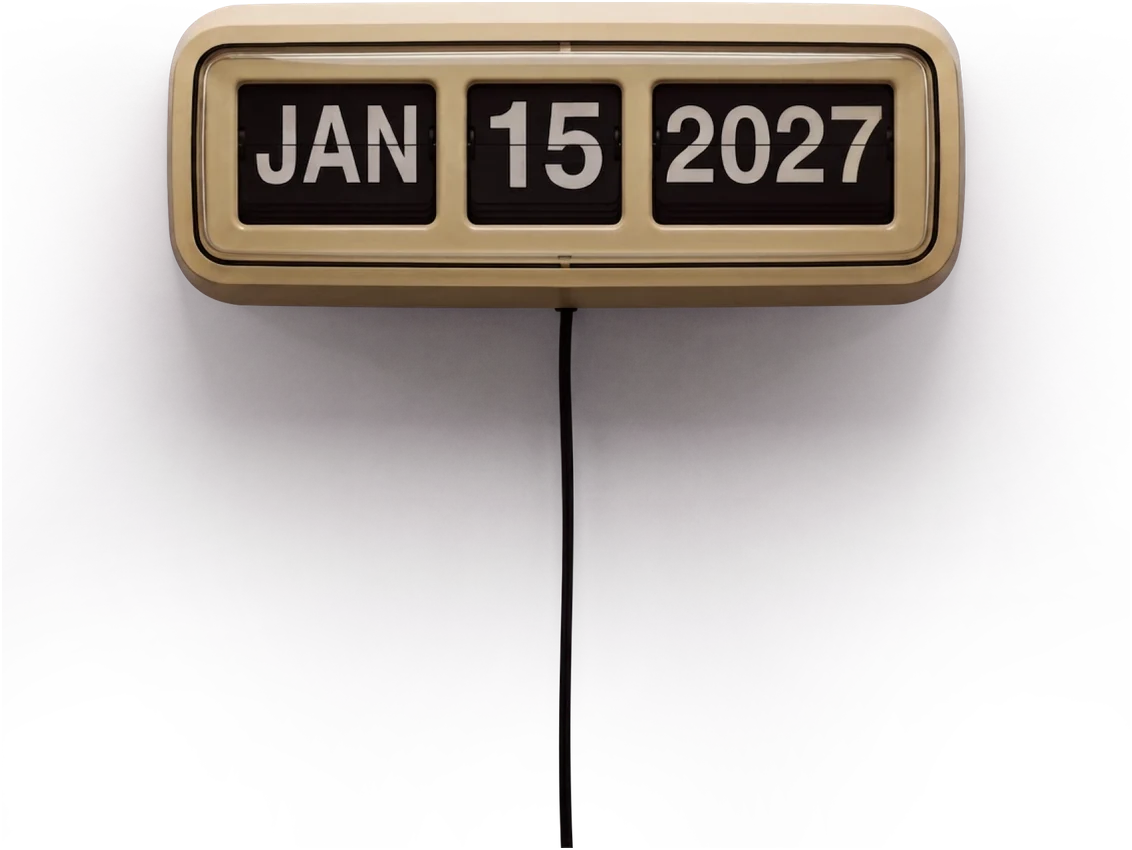
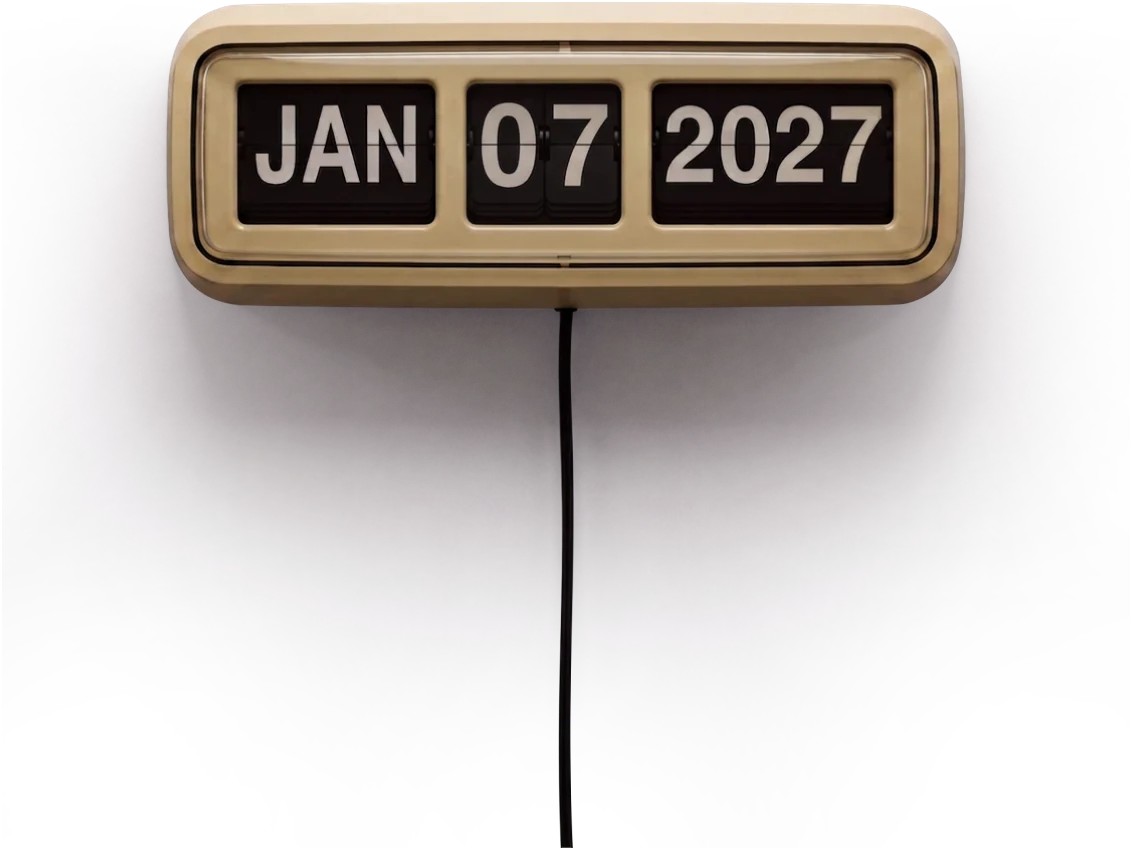
Update the clock to JAN 07 2027 and tear the wall card open and shut
The Figma clock now reads JAN 07 2027: new clock sprite, launch date,
copy and share image follow it. The "Be Part of" card no longer fades
behind the news form; it uses the Replica's crumpled-edge reveal as a
clip-path, opening after load and closing with the scroll.

Claude-Session: https://claude.ai/code/session_01NcG1xNn6z1Y4vGfPNeuqxL

diff --git a/src/main.js b/src/main.js
@@ -1,5 +1,6 @@
 // Metro Rewind teaser — Three.js scene: wall → desk cube-pitch transition, relit image layers, typing sheet.
 import * as THREE from 'three';
+import { crumpleReveal } from './reveal.js';
 
 const FRAME_W = 1728, FRAME_H = 1038, DESK_Y = 1038;       // design px; desk frame sits under the wall frame
 const reduce = matchMedia('(prefers-reduced-motion: reduce)').matches;
@@ -252,13 +253,13 @@ class Flip {
 const MONTHS = ['JAN','FEB','MAR','APR','MAY','JUN','JUL','AUG','SEP','OCT','NOV','DEC'];
 const units = [
   new Flip(966.3, 99, CARD_H, 'JAN'),
-  new Flip(1070.1, 76.7, CARD_H, '15'),
+  new Flip(1070.1, 76.7, CARD_H, '07'),
   new Flip(1184.8, 120.7, CARD_H, '2027'),
 ];
 { const n = new Date(); units[0].show(MONTHS[n.getMonth()]); units[1].show(String(n.getDate()).padStart(2, '0')); units[2].show(String(n.getFullYear())); }   // today, until the flip starts
-// on load the clock shows the visitor's today and flips to launch day, JAN 15 2027.
+// on load the clock shows the visitor's today and flips to launch day, JAN 07 2027 (per the comp).
 // Long gaps are sampled so each card turns at most a handful of times (~2s total, whatever the date).
-const LAUNCH = new Date(2027, 0, 15);
+const LAUNCH = new Date(2027, 0, 7);
 function hops(from, to, max) {                         // evenly spaced values from→to (excluding from, ending on to)
   const n = Math.abs(to - from); if (!n) return [];
   const k = Math.min(n, max), out = [];
@@ -275,7 +276,7 @@ function spin() {
   while (mi !== 0 || (dir < 0 && months.length === 0 && m0 !== 0)) { mi = (mi + dir + 12) % 12; months.push(mi); if (months.length > 12) break; }
   const ms = months.length > 7 ? hops(0, months.length - 1, 7).map(i => months[i]) : months;
   units[2].push(hops(y0, 2027, 5).map(String), 0);
-  units[1].push(hops(d0, 15, 8).map(v => String(v).padStart(2, '0')), .25);
+  units[1].push(hops(d0, LAUNCH.getDate(), 8).map(v => String(v).padStart(2, '0')), .25);
   units[0].push(ms.map(i => MONTHS[i]), .12);
 }
 function wallCopy() {}                                                     // the comp's own subheader is a wall sprite now
@@ -614,6 +615,10 @@ addEventListener('keydown', ev => { if (modalOpen || ev.target.closest?.('input,
 const tog = (id, k) => { const b = document.getElementById(id); b.addEventListener('click', () => { S[k] = S[k] ? 0 : 1; b.setAttribute('aria-pressed', !!S[k]); }); };
 
 const back = document.getElementById('back'), wallcard = document.getElementById('wallcard');
+// "Be Part of" card: tears open from its corner once the scene has loaded, and tears shut again (scrubbing
+// with the scroll) before the tilt starts, instead of fading while the news form shows through it.
+const paintCard = crumpleReveal(wallcard, { origin: 'bottom-right' });
+let cardIn = 0; paintCard(0);
 document.getElementById('scrollDown').addEventListener('click', () => goTo(1));
 back.addEventListener('click', () => goTo(0));
 const lampBtn = document.getElementById('lampBtn');           // keyboard stand-in for clicking the lamp shade
@@ -717,7 +722,8 @@ function frame() {
   const onDesk = viewT > .95; if (lampBtn.hidden === onDesk) lampBtn.hidden = !onDesk;
   const pressed = String(lampOn); if (lampBtn.getAttribute('aria-pressed') !== pressed) lampBtn.setAttribute('aria-pressed', pressed);
   for (const m of steam) { m.material.uniforms.uOn.value = THREE.MathUtils.smoothstep(viewT, .6, 1); m.position.z = m.userData.z * THREE.MathUtils.smoothstep(viewT, .35, .95); }
-  wallcard.classList.toggle('gone', viewT > .06);
+  if (started) cardIn = reduce ? 1 : Math.min(1, cardIn + dt / .8);                   // on-load open, once
+  paintCard(Math.min(cardIn, 1 - THREE.MathUtils.clamp((sm - .03) / (.11 - .03), 0, 1)));
   renderer.setRenderTarget(rt); renderer.render(scene, camera);
   renderer.setRenderTarget(null); renderer.render(postScene, postCam);
   requestAnimationFrame(frame);

diff --git a/index.html b/index.html
@@ -6,18 +6,18 @@
 <!-- Test deploy: remove this and the X-Robots-Tag header in vercel.json at launch. -->
 <meta name="robots" content="noindex, nofollow">
 <title>Metro Rewind 2026: Coming Soon</title>
-<meta name="description" content="Your personalized Metro year in review is back. Tap in your SmarTrip to see your 2026 trips, top stations and streaks. Coming January 15, 2027.">
+<meta name="description" content="Your personalized Metro year in review is back. Tap in your SmarTrip to see your 2026 trips, top stations and streaks. Coming January 7, 2027.">
 <meta name="theme-color" content="#2a1f18">
 <link rel="canonical" href="%SITE_URL%/">
 <meta property="og:type" content="website">
 <meta property="og:site_name" content="Metro">
 <meta property="og:title" content="Metro Rewind 2026: Coming Soon">
-<meta property="og:description" content="Your personalized Metro year in review is back. Tap in your SmarTrip to see your 2026 trips, top stations and streaks. Coming January 15, 2027.">
+<meta property="og:description" content="Your personalized Metro year in review is back. Tap in your SmarTrip to see your 2026 trips, top stations and streaks. Coming January 7, 2027.">
 <meta property="og:url" content="%SITE_URL%/">
 <meta property="og:image" content="%SITE_URL%/og.jpg">
 <meta property="og:image:width" content="1200">
 <meta property="og:image:height" content="630">
-<meta property="og:image:alt" content="The Metro Rewind lettered on a sunlit wall above a flip clock reading JAN 15 2027">
+<meta property="og:image:alt" content="The Metro Rewind lettered on a sunlit wall above a flip clock reading JAN 07 2027">
 <meta name="twitter:card" content="summary_large_image">
 <link rel="icon" href="/assets/ui_logo.webp" type="image/webp">
 <link rel="apple-touch-icon" href="/apple-touch-icon.png">
@@ -34,11 +34,11 @@
 <div id="scroller"></div>
 <div id="about" class="vh">
   <h1>The Metro Rewind</h1>
-  <p>Tap in your SmarTrip and watch your year unfold. Coming soon: January 15, 2027.</p>
+  <p>Tap in your SmarTrip and watch your year unfold. Coming soon: January 7, 2027.</p>
   <p>Scroll down from the wall to a lamp-lit desk, where a typewriter asks you to be part of Metro Rewind.</p>
   <noscript><p>This experience needs JavaScript and WebGL.</p></noscript>
 </div>
-<p id="nogl" hidden>Your browser couldn't start the 3D scene. The Metro Rewind is coming January 15, 2027. You can still sign up for news and share your story.</p>
+<p id="nogl" hidden>Your browser couldn't start the 3D scene. The Metro Rewind is coming January 7, 2027. You can still sign up for news and share your story.</p>
 <div id="deskKeys">
   <button class="skip" type="button" id="storyBtn">Share your Metro story</button>
   <button class="skip" type="button" id="lampBtn" aria-pressed="true" hidden>Desk lamp</button>

diff --git a/src/reveal.js b/src/reveal.js
@@ -1,0 +1,50 @@
+// Crumpled-edge reveal for DOM panels: a clip-path polygon that grows from one corner with an
+// irregular, torn-looking edge. Ported from MTRO-18796-Replica/src/lib/reveal.js (the "...You!" box),
+// which in turn ports the w64 theme's createSpikeAnimation. Same seeded spokes and defaults, so the
+// edge is identical on every play and on scrub-back; here it drives clip-path instead of a mask.
+
+/** Seeded xorshift32 in [0, 1). */
+function xorshift(seed) {
+  let s = (seed >>> 0) || 1;
+  return () => { s ^= s << 13; s ^= s >>> 17; s ^= s << 5; return (s >>> 0) / 4294967296; };
+}
+
+/** Per-spoke radius multipliers: most spokes just inside 1, about a third poking past it. */
+function spikeSpokes(nPts, seed, spread) {
+  const rnd = xorshift(seed);
+  return Array.from({ length: nPts }, () => {
+    const v = rnd();
+    return v > 0.65 ? 1 + spread * 0.1 + ((v - 0.65) / 0.35) * spread * 0.9 : 1 - spread + (v / 0.65) * spread * 0.9;
+  });
+}
+
+const ORIGINS = { 'top-left': [0, 0], 'top-right': [1, 0], 'bottom-left': [0, 1], 'bottom-right': [1, 1], centre: [.5, .5] };
+
+/** power2.inOut, the theme's panelGrow ease. */
+export const easeInOut2 = t => { const x = Math.min(Math.max(t, 0), 1); return x < .5 ? 2 * x * x : 1 - Math.pow(-2 * x + 2, 2) / 2; };
+
+/**
+ * Returns paint(t): t = 0 hides the element, 1 shows it whole (no clip-path at all), anything
+ * between clips it to the torn polygon at that eased fraction. Only repaints when t changes.
+ */
+export function crumpleReveal(el, spec = {}) {
+  const d = { origin: 'bottom-right', seed: 1337, nPts: 72, spread: .12, waveAmp: .05, waveCount: 2, overshoot: 1.25, ...spec };
+  const spokes = spikeSpokes(d.nPts, d.seed, d.spread);
+  let last = -1;
+  return function paint(t) {
+    t = Math.min(Math.max(t, 0), 1);
+    if (Math.abs(t - last) < 1e-4) return;
+    last = t;
+    el.classList.toggle('anim', t > 0 && t < 1);
+    if (t <= 0) { el.style.visibility = 'hidden'; el.style.clipPath = ''; return; }
+    el.style.visibility = '';
+    if (t >= 1) { el.style.clipPath = ''; return; }
+    const W = el.offsetWidth, H = el.offsetHeight, [ox, oy] = ORIGINS[d.origin] ?? ORIGINS['bottom-right'];
+    const r = easeInOut2(t) * Math.hypot(W, H) * d.overshoot;
+    const pts = spokes.map((m, i) => {
+      const a = i / spokes.length * 2 * Math.PI, rad = r * m * (1 + d.waveAmp * Math.sin(d.waveCount * a));
+      return `${(ox * W + rad * Math.cos(a)).toFixed(1)}px ${(oy * H + rad * Math.sin(a)).toFixed(1)}px`;
+    });
+    el.style.clipPath = `polygon(${pts.join(',')})`;
+  };
+}

diff --git a/src/style.css b/src/style.css
@@ -43,9 +43,8 @@
   #cta .msg{position:absolute;left:40px;top:166px;width:188px;margin:0;font:600 10.5px/1.25 Archivo,"Helvetica Neue",Arial,sans-serif;color:var(--err)}
   #wallcard{position:fixed;right:0;bottom:calc(env(safe-area-inset-bottom,0px) + 25px*var(--s));width:152px;height:200px;z-index:4;box-sizing:border-box;padding:20px;
     display:flex;flex-direction:column;justify-content:space-between;background:url(/assets/ui_paper.webp) center/cover;box-shadow:-6px 6px 18px rgba(40,24,14,.28);
-    transition:opacity .4s,visibility .4s}
-  #cta:hover ~ #wallcard, #cta:focus-within ~ #wallcard{z-index:2}
-  #wallcard.gone{opacity:0;visibility:hidden}
+}
+  #cta:hover ~ #wallcard:not(.anim), #cta:focus-within ~ #wallcard:not(.anim){z-index:2}
   #wallcard .t{display:block;width:112px;height:auto}
   .btn{font:800 12px/15px Archivo,"Helvetica Neue",Arial,sans-serif;color:var(--bronze);background:transparent;border:2px solid var(--bronze);border-radius:4px;
     height:28px;padding:0 10px;display:inline-flex;align-items:center;justify-content:center;gap:4px;cursor:pointer;white-space:nowrap}

diff --git a/tools/process.py b/tools/process.py
@@ -140,8 +140,8 @@ e=build('wall_bg',wb,1.0,-66,0,1859,1038,0,1,0,1.2,.05,10,0,1,maxside=4000,bake_
 ws=np.array(Image.open(R+'/wall_sign.png').convert('RGBA'))
 ws=ws[380:720, 90:1995]  # crop to letters+shadow (1x export)
 man['wall'].append(build('wall_sign',ws,1.0,-189+90,-54+380,1905,340,30,3,2.5,1.4,.35,35,.55,.3,maxside=4000))
-# wall copy + clock straight from the comp (3x exports → 2x textures), printed flat on the wall
-for nm,src,x,y,w,h in [('wall_copy','wall_subheader.png',447,615,381,153),('wall_clock','wall_clock3x.png',799.1,615,564,423)]:
+# wall copy + clock straight from the comp (resized to 2x textures), printed flat on the wall
+for nm,src,x,y,w,h in [('wall_copy','wall_subheader.png',447,615,381,153),('wall_clock','clock_v2.png',799.1,615,564,423)]:
     im=Image.open(R+'/parts/'+src).convert('RGBA'); im=im.resize((round(w*2),round(h*2)),Image.LANCZOS)
     man['wall'].append(build(nm,np.array(im),2.0,x,y,w,h,0,1,0,0,0,10,0,1.0,flat=True))
 json.dump(man,open(str(ROOT/'public'/'assets'/'manifest.json'),'w'),indent=1)

diff --git a/README.md b/README.md
@@ -19,6 +19,7 @@ npm run preview   # serve dist/
 - **Layers.** Every desk object is a flat image layer from Figma, placed at its comp position. Layers with height are perspective-corrected so they land exactly on the comp at rest.
 - **Lighting.** The lamp is off during the tilt and flickers on when the desk arrives; clicking the shade toggles it. The beam is a single shader cone that runs white at the lamp and yellow at the pool, aimed at the typewriter sheet. The wall light is the comp's sun patch, animated to breathe, sway and throw dust motes.
 - **Arrival choreography.** The chair tucks under the desk. The Metrorail map taps down into the folder with small alternating tilts. Photos, the SmarTrip card and the M puzzle square up from slight rotations. Then the typewriter types "Be Part of Metro Rewind".
+- **Wall card.** The "Be Part of Metro Rewind" card tears open from its corner after loading and tears shut, scrubbed by the scroll, before the tilt. It uses a clip-path port of the Replica's crumpled-edge reveal (`src/reveal.js`).
 - **UI.** The newsletter form and the three-step "Calling for Your Metro Stories" modal validate input, then show a "not connected yet" message. Nothing is sent. The sound toggle plays a synthesized room tone with clock and typewriter clicks.
 
 ## Layout

diff --git a/docs/troubleshooting.md b/docs/troubleshooting.md
@@ -91,6 +91,18 @@ Entry format:
   the old and new files and diffing the pixels.
 - **Prevent:** always keep `viewBox` when minifying UI SVGs.
 
+### Background `process.py` left textures half-written
+- **Area:** tooling
+- **Cause:** `process.py` was started in the background from the device shell.
+  The shell ends after each call, which killed the script mid-run, leaving
+  some `public/assets/*.webp` rewritten and one empty (0 bytes).
+- **Fix:** restored the damaged files with `git checkout`, then rebuilt only
+  the changed sprite with a small script that reuses `build()` from
+  `process.py`.
+- **Prevent:** never background long jobs in the device shell. For a
+  one-sprite change, rebuild that sprite alone. Check `git status` on
+  `public/assets/` afterwards.
+
 ## Git and GitHub
 
 ### Git breaks inside the mounted folder (`index.lock`, garbage objects)

diff --git a/.claude/agents/scene-author.md b/.claude/agents/scene-author.md
@@ -41,7 +41,7 @@ You place and time things. Read `.claude/agents/00-agent-roles-overview.md` and
   typewriter.
 - **Clock**: the comp's clock image is a wall sprite, and the flip cards are
   overlays shown only while they flip. It flips from the visitor's today to
-  JAN 15 2027. `hops()` caps the flips (year ≤5, month ≤7, day ≤8) so a large
+  JAN 07 2027. `hops()` caps the flips (year ≤5, month ≤7, day ≤8) so a large
   gap is still short. Clicking the clock replays it.
 - **Input**:
   - Wheel/scroll drives `scrollP`, and drag/swipe drives it with inertia. A
